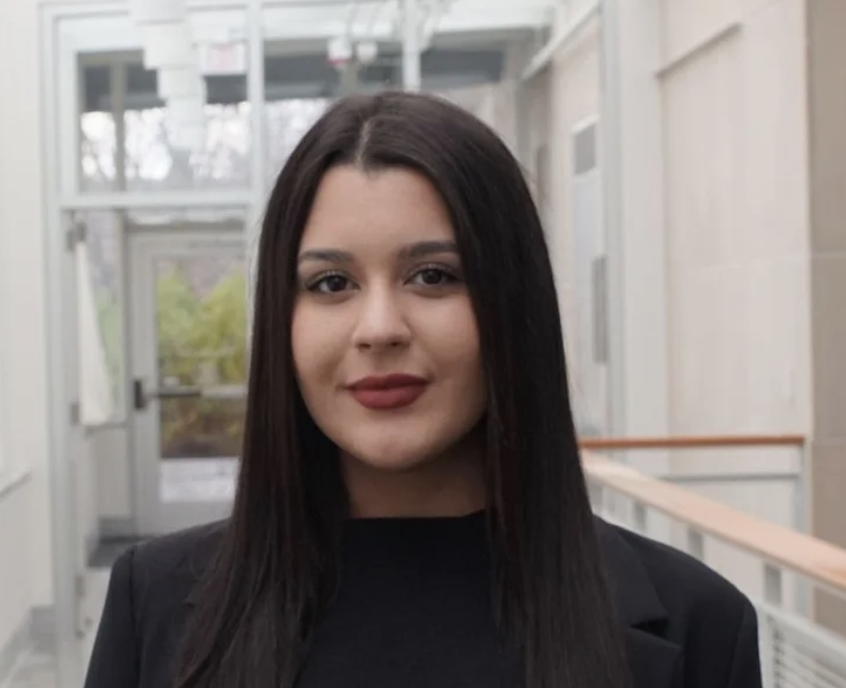
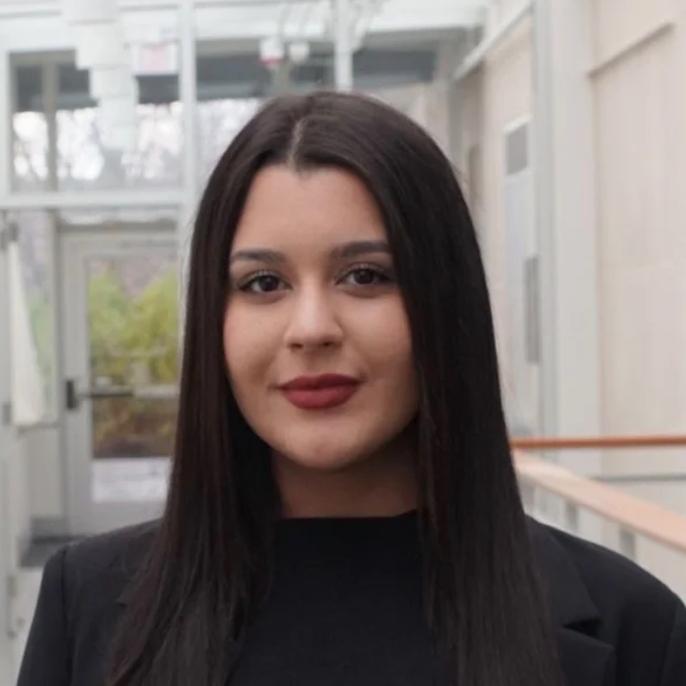
fix picture shape and made majors standardized

diff --git a/components/members/members.ts b/components/members/members.ts
@@ -120,7 +120,7 @@ export const team = [
             {
                 Name: 'Elif Yilmaz',
                 ClassYear: 2027,
-                Major: 'Economics and Government',
+                Major: 'Economics & Government',
                 Img: '/members/elif.png',
                 Linkedin:
                     ' https://www.linkedin.com/in/elif-naz-yilmaz/',
@@ -138,7 +138,7 @@ export const team = [
             {
                 Name: 'Carl Hu',
                 ClassYear: 2028,
-                Major: 'CS + Cognitive Science',
+                Major: 'CS & Cognitive Science',
                 Img: '/members/carl.png',
                 Linkedin:
                     'https://www.linkedin.com/in/carl-hu/',

diff --git a/components/members/index.tsx b/components/members/index.tsx
@@ -42,7 +42,7 @@ const Members: React.FC = () => {
                                                 alt={member.Name}
                                                 width={208}
                                                 height={208}
-                                                className="rounded-full object-cover"
+                                                className="object-cover aspect-square rounded-full object-center"
                                                 loading="eager"
                                             />
                                             <p className="text-pmred-500 dela-gothic-one font-semibold sm:text-lg text-center sm:mt-4 mt-3">
